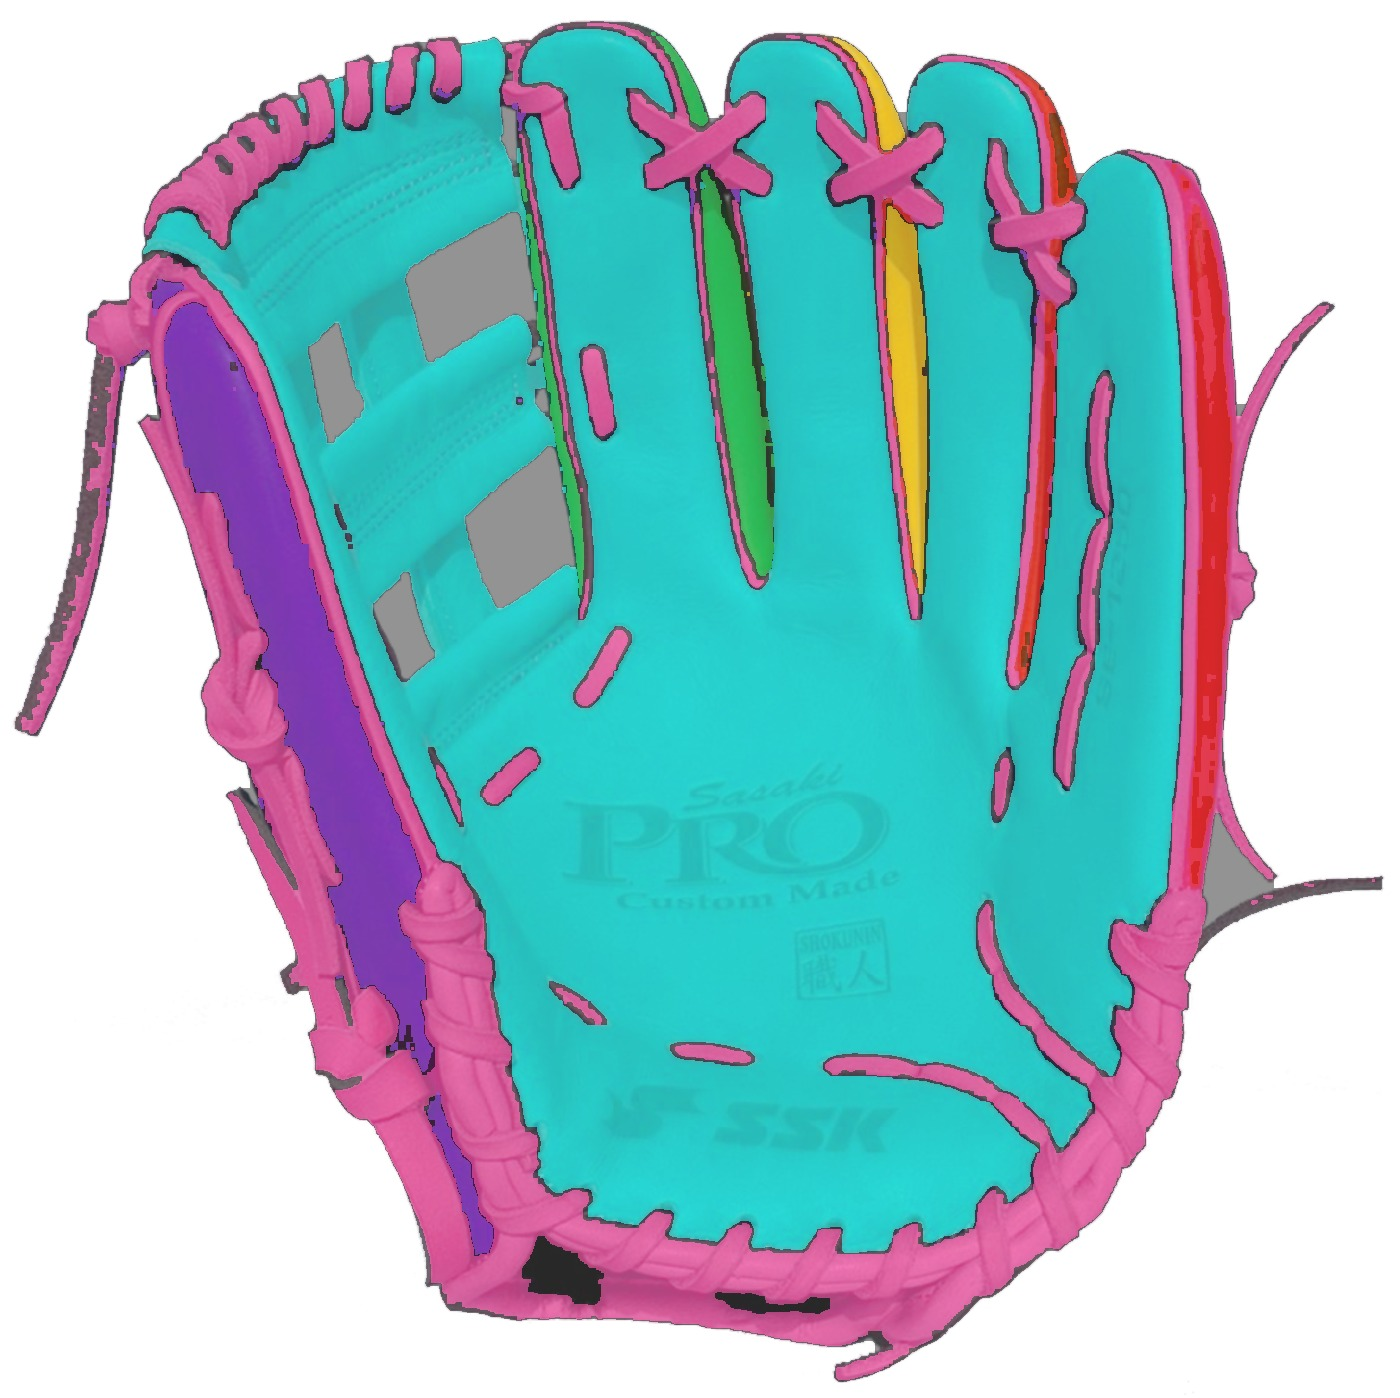
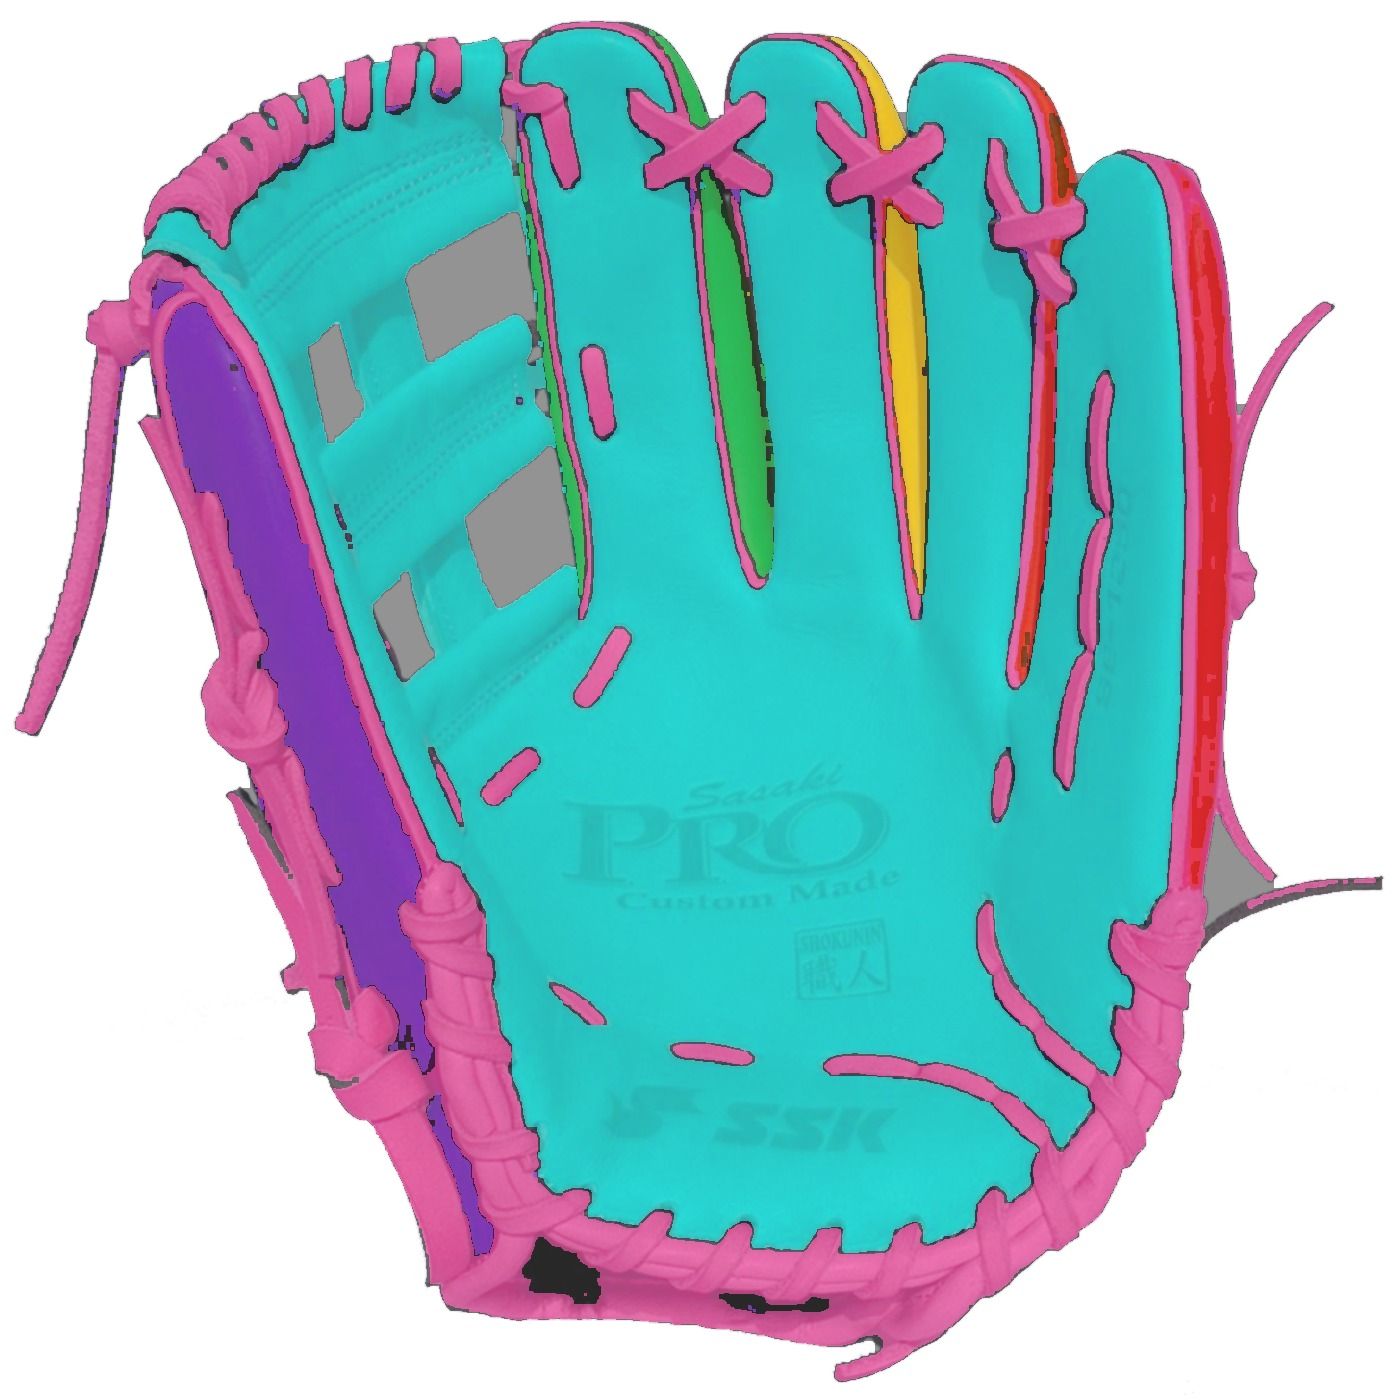
Palm-view assets, in the shape the engine reads for a view
build_palm.py is its own short script rather than another branch through
build_assets.py: the back's builder swaps webs, warps the SSK wordmark onto
the ring finger, mounts a flag and punches out a knot, and none of that
exists on the palm. What it shares is the part that matters — the same
tint_base / spec_base split, so a colour renders the same on both sides of
the glove, and sheen scaling against the palm's own median, so one chosen
colour does not come out as two.

Seven zones: palm, web, the two wingtips, welting, binding, laces. 0.58 MB.

Two fixes the first render showed:

The glove layer is the LEATHER, not the filled outline. The web's openings
are background you can see through from this side too, and a filled base
painted them tan.

And the saturation floors were too high. A lace tail hanging off the rim sits
at S 0.22, the thumb panel in shadow at 0.19, a finger channel at 0.24 — all
three came out unclaimed and rendered as bare tan. Hue still separates them;
only the floor was wrong. Unpainted base is down to 15,004 px, which is the
SSK patch and two lace ends.

Claude-Session: https://claude.ai/code/session_01LrwdtXa84bx1vtPD2tbGHV

diff --git a/glove_builder/customiser/build_palm.py b/glove_builder/customiser/build_palm.py
@@ -1,0 +1,109 @@
+"""Assets for the palm view, from the zone map make_palm.py cuts.
+
+The back view's builder does a great deal that only the back needs — swapping
+webs, warping the SSK wordmark onto the ring finger, mounting a flag on the
+index finger, punching out a knot. None of that exists on the palm, so this is
+its own short script rather than another branch through that one. What it does
+share is the part that matters: the same tint_base / spec_base split, so a
+colour renders the same on both sides of the glove, and the same sheen scaling,
+so one chosen colour does not come out as two.
+
+    python glove_builder/customiser/build_palm.py
+
+Writes assets/palm/*.webp and assets/palm-data.json, in the shape the engine
+reads for a view: w, h, zones, bbox, assets.
+"""
+
+import json
+import pathlib
+
+import numpy as np
+from PIL import Image
+
+from build_assets import spec_base, tint_base, sheen_p95, match_sheen
+
+HERE = pathlib.Path(__file__).parent
+LAYERS = HERE.parent / "layers" / "rainbow-palm"
+OUT = HERE / "assets"
+HEIGHT = 1100
+
+# Which zone of the palm view answers which question on the form. Every one of
+# these is already a colour field on the back view except that two of them —
+# the wingtips — are collected there without being shown.
+ZONES = [
+    ("palm",    "Palm colour"),
+    ("web",     "Web colour"),
+    ("back1",   "Back 1 — Wingtip thumb"),
+    ("back9",   "Back 9 — Wingtip pinky"),
+    ("welting", "Welting"),
+    ("binding", "Binding"),
+    ("laces",   "Laces"),
+]
+
+
+def main():
+    src = {}
+    for name, _ in ZONES + [("glove", "")]:
+        f = LAYERS / f"{name}.png"
+        if not f.exists():
+            print(f"  missing {f.name}; run make_palm.py first")
+            return
+        im = Image.open(f).convert("RGBA")
+        w = round(im.width * HEIGHT / im.height)
+        src[name] = im.resize((w, HEIGHT), Image.LANCZOS)
+    W = src["glove"].width
+    print(f"palm view canvas {W}x{HEIGHT}")
+
+    (OUT / "palm").mkdir(parents=True, exist_ok=True)
+
+    # The neutral base, the same trick the back view uses: the whole glove
+    # tinted to its own midtone and multiplied by a plain tan, so any pixel no
+    # zone covers reads as leather rather than as this glove's rainbow.
+    gb = np.asarray(tint_base(src["glove"])).astype(np.float32)
+    gb[..., :3] *= np.array([200, 160, 106], np.float32) / 255.0
+    base = Image.fromarray(gb.astype(np.uint8), "RGBA")
+
+    assets, zones, bbox = {}, [], {}
+
+    def put(name, img, **kw):
+        p = OUT / "palm" / f"{name}.webp"
+        img.save(p, "WEBP", **kw)
+        assets[name] = f"assets/palm/{name}.webp"
+        a = np.asarray(Image.open(p).convert("RGBA"))[..., 3]
+        ys, xs = np.nonzero(a > 8)
+        if len(ys):
+            bbox[name] = [int(xs.min()), int(ys.min()),
+                          int(xs.max()) + 1, int(ys.max()) + 1]
+
+    put("glove", base, quality=88, method=4)
+    # The back view measures one sheen scale per zone group and applies it so
+    # the highlights agree; here every zone is plain leather under one light,
+    # so the palm's own median is the target.
+    seen = [sheen_p95(spec_base(src[n])) for n, _ in ZONES
+            if spec_base(src[n]) is not None]
+    seen = [t for t in seen if t]
+    target = (float(np.median([t[0] for t in seen])),
+              float(np.median([t[1] for t in seen]))) if seen else None
+    for i, (name, label) in enumerate(ZONES, 1):
+        im = src[name]
+        if (np.asarray(im)[..., 3] > 90).sum() < 200:
+            print(f"  {name}: empty on this view, skipped")
+            continue
+        put(name, tint_base(im), quality=85, method=4)
+        sp = match_sheen(spec_base(im), target)
+        if sp is not None:
+            put(name + "_hi", sp, quality=80, method=4)
+        zones.append({"id": name, "n": i, "group": "palm", "label": label})
+        print(f"  {name:9s} {int((np.asarray(im)[..., 3] > 90).sum()):7d} px"
+              f"  {label}")
+
+    data = {"w": W, "h": HEIGHT, "zones": zones, "assets": assets,
+            "bbox": bbox}
+    (OUT / "palm-data.json").write_text(json.dumps(data, separators=(",", ":")))
+    total = sum(f.stat().st_size for f in (OUT / "palm").glob("*"))
+    print(f"\nwrote assets/palm/ — {len(assets)} files, {total/1e6:.2f} MB"
+          f" + palm-data.json")
+
+
+if __name__ == "__main__":
+    main()

diff --git a/glove_builder/make_palm.py b/glove_builder/make_palm.py
@@ -28,13 +28,17 @@ PHOTO = HERE / "images/drive-2026-08/SE-1250-RAINBOW-Inside.jpg"
 WORK = 1400          # working width; the photo is 3679 square
 
 # hue window, saturation floor, and the colour to paint it in the check
+# The floors are down from where they started. A lace tail hanging off the
+# rim sits at S 0.22, the thumb panel in shadow at 0.19 and a finger channel
+# at 0.24, and at the first floors all three came out unclaimed and rendered
+# as bare tan. Hue still separates them; only the floor was wrong.
 BANDS = [
-    ("turquoise  palm + web",   (165, 205), 0.25, (60, 220, 210)),
-    ("pink       lacing + binding", (305, 355), 0.25, (240, 90, 170)),
-    ("purple     thumb side",    (262, 302), 0.22, (150, 80, 220)),
-    ("red        pinky side",    (352, 18),  0.30, (230, 60, 60)),
-    ("yellow     finger channel", (25, 55),  0.30, (240, 210, 60)),
-    ("green      finger channel", (130, 163), 0.28, (70, 200, 90)),
+    ("turquoise  palm + web",   (165, 205), 0.22, (60, 220, 210)),
+    ("pink       lacing + binding", (305, 355), 0.17, (240, 90, 170)),
+    ("purple     thumb side",    (262, 302), 0.16, (150, 80, 220)),
+    ("red        pinky side",    (352, 18),  0.24, (230, 60, 60)),
+    ("yellow     finger channel", (25, 55),  0.24, (240, 210, 60)),
+    ("green      finger channel", (130, 163), 0.20, (70, 200, 90)),
 ]
 
 
@@ -143,9 +147,13 @@ def main():
         binding = ring
     laces = pink & ~binding
 
+    # The glove layer is the LEATHER, not the filled outline. The web's
+    # openings are background you can see through on this side too, and a
+    # filled base paints them tan.
     zones = {"palm": palm, "web": web, "binding": binding, "laces": laces,
              "back1": band["purple"], "back9": band["red"],
-             "welting": band["yellow"] | band["green"], "glove": glove}
+             "welting": band["yellow"] | band["green"],
+             "glove": glove & ~holes}
     lay = HERE / "layers" / "rainbow-palm"
     lay.mkdir(parents=True, exist_ok=True)
     rgb = np.asarray(im)
